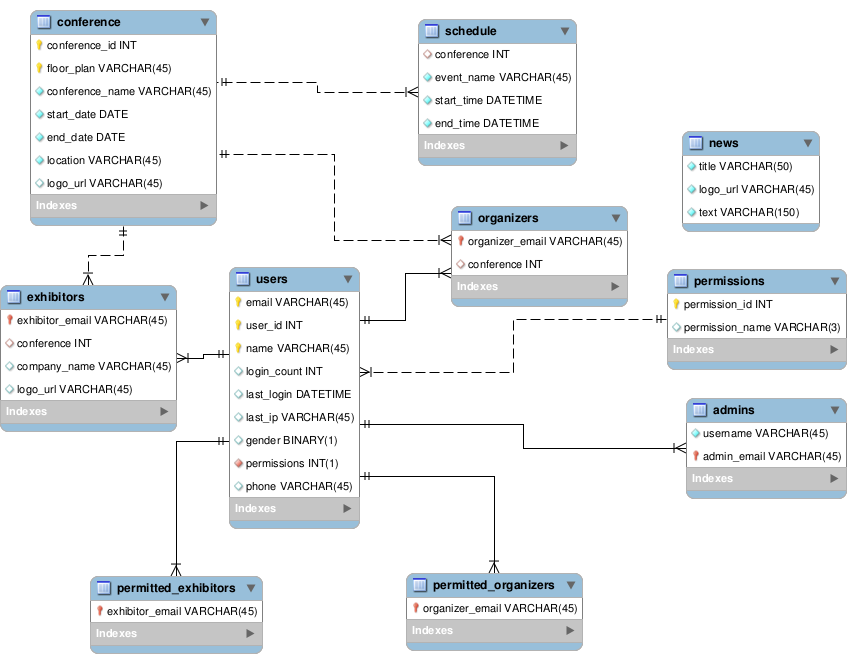
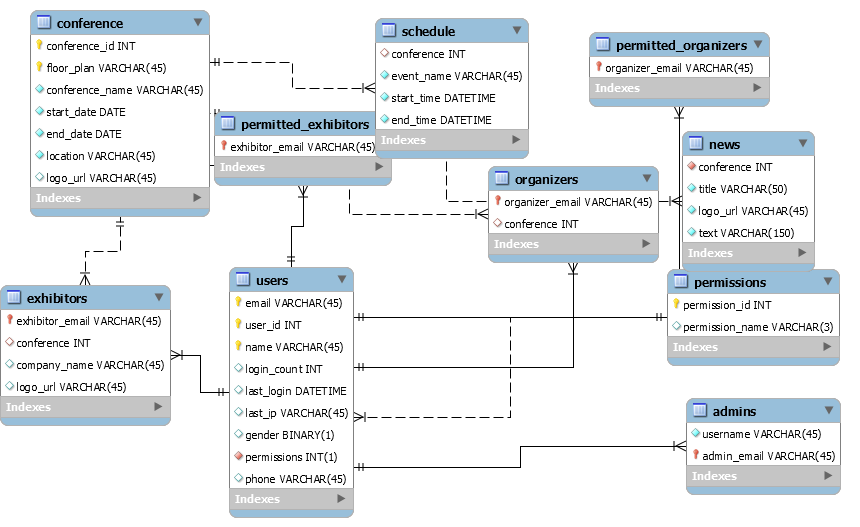
Added /news/:conf and update database picture
Added new route /news/:conf and updated the database model picture since
the previous one is outdated

diff --git a/backend/general.py b/backend/general.py
@@ -36,6 +36,18 @@ def getExInfo(db, confId):
     results = cursor.fetchall()
     return results, 200
 
+def getNews(db, confId):
+    #any # of news with title, logo, text    
+    cursor = db.cursor(dictionary=True)
+    result = [] 
+    query = "SELECT title, logo_url, text FROM news WHERE conference = %s"
+    cursor.execute(query, (confId,))
+    results = cursor.fetchall()
+    for row in results:
+        result.append(row)
+        print(row)
+    return result, 200    
+    
 
 @genRoutes.route("/info/<string:confId>", methods=["GET"])
 def info(confId):
@@ -63,3 +75,13 @@ def exhbitors(confId):
         result = simplejson.dumps(result)
         db.close()
         return Response(result, mimetype="application/json"), status
+
+@genRoutes.route("/news/<string:confId>", methods=["GET"])
+def news(confId):
+    if request.method == "GET":
+        db = dbPool.connect().connection
+        result, status = getNews(db, confId)
+        result = simplejson.dumps(result)
+        db.close()
+        return Response(result, mimetype= "application/json"), status
+
